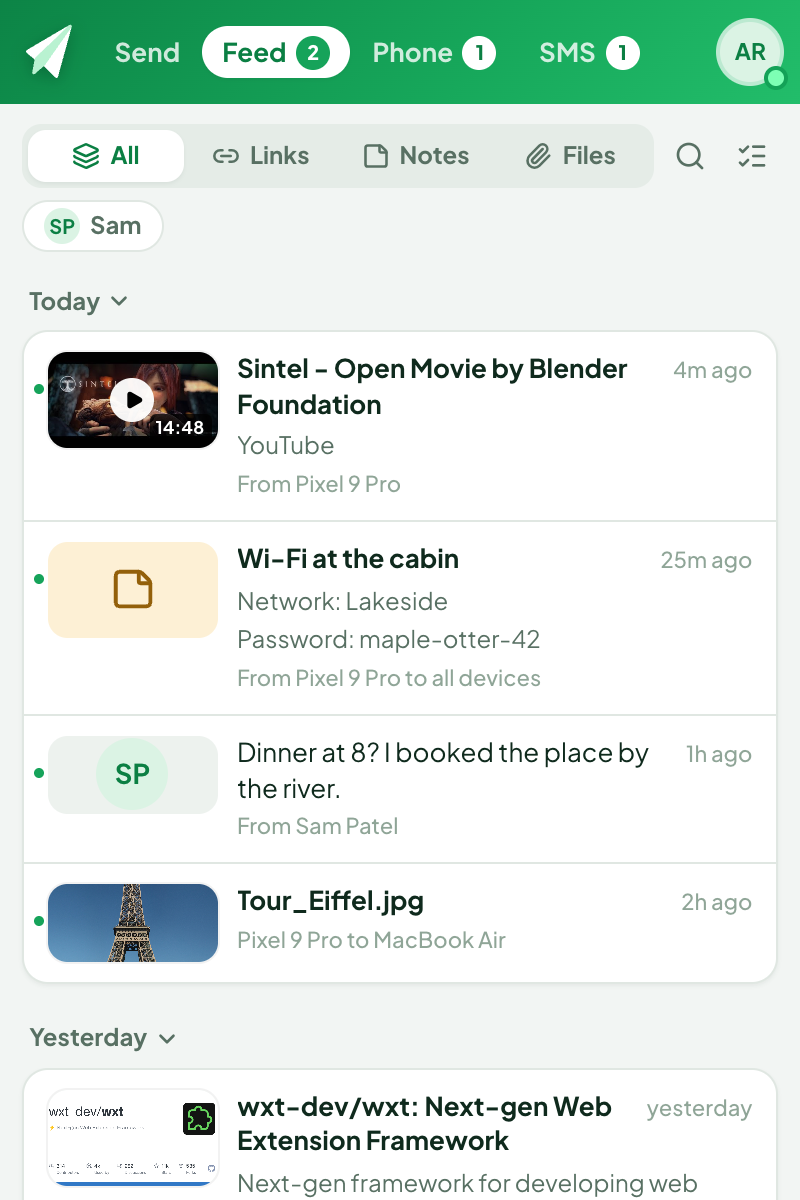
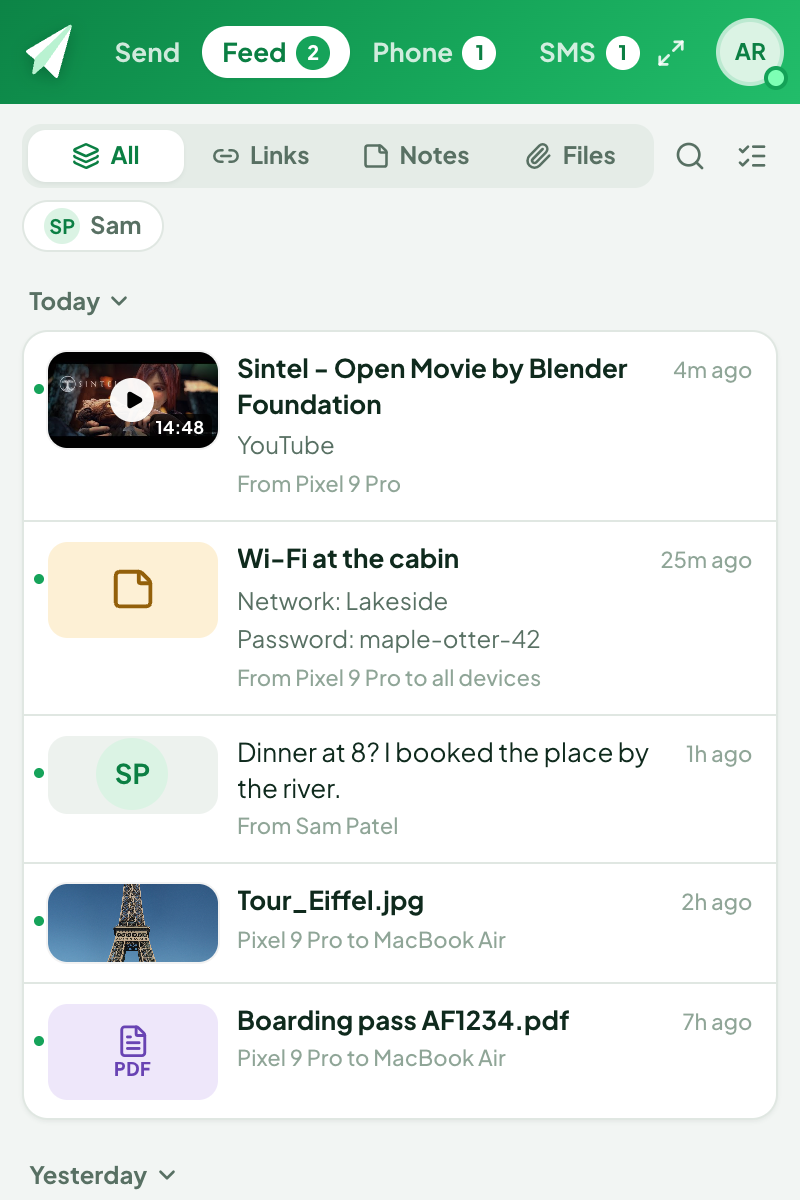
docs: full-page screenshots for the README and store; image count plural
The screenshot script renders the full-page app in a window frame for
store images (Overview, Feed, SMS) and the marquee, plus README shots;
STORE_OUT renders store images elsewhere to compare first. The demo data
gains a few files and stays sorted. '1 images' is now '1 image'.

diff --git a/scripts/demo/data.js b/scripts/demo/data.js
@@ -137,6 +137,46 @@
         target_device_iden: 'd-mac',
       },
       {
+        iden: 'f-boarding',
+        active: true,
+        dismissed: true,
+        created: ago(26000),
+        modified: ago(26000),
+        type: 'file',
+        direction: 'self',
+        file_name: 'Boarding pass AF1234.pdf',
+        file_type: 'application/pdf',
+        file_url: 'https://example.com/boarding-pass.pdf',
+        source_device_iden: 'd-pixel',
+        target_device_iden: 'd-mac',
+      },
+      {
+        iden: 'f-lease',
+        active: true,
+        dismissed: true,
+        created: ago(3 * 86400),
+        modified: ago(3 * 86400),
+        type: 'file',
+        direction: 'self',
+        file_name: 'Lease agreement.docx',
+        file_type: 'application/vnd.openxmlformats-officedocument.wordprocessingml.document',
+        file_url: 'https://example.com/lease.docx',
+        source_device_iden: 'd-mac',
+      },
+      {
+        iden: 'f-slides',
+        active: true,
+        dismissed: true,
+        created: ago(12 * 86400),
+        modified: ago(12 * 86400),
+        type: 'file',
+        direction: 'self',
+        file_name: 'Product review.pptx',
+        file_type: 'application/vnd.openxmlformats-officedocument.presentationml.presentation',
+        file_url: 'https://example.com/review.pptx',
+        source_device_iden: 'd-work',
+      },
+      {
         iden: 'p5',
         active: true,
         dismissed: true,
@@ -276,4 +316,6 @@
       videoDuration: 635,
     },
   };
+  // Newest first, as the extension keeps them.
+  window.__DEMO_DATA__.pushes.sort((a, b) => b.created - a.created);
 })();

diff --git a/src/ui/dashboard/Overview.tsx b/src/ui/dashboard/Overview.tsx
@@ -89,7 +89,7 @@ export function Overview({
           icon={<FolderOpen size={19} />}
           label={i18n.t('dash.statFiles')}
           value={files.length}
-          hint={i18n.t('dash.statImages', [String(files.filter((p) => fileKind(p) === 'image').length)])}
+          hint={i18n.t('dash.statImages', files.filter((p) => fileKind(p) === 'image').length)}
           onClick={() => onPage('files')}
         />
         <Stat

diff --git a/README.md b/README.md
@@ -45,8 +45,8 @@ The official Pushbullet extension is built on Manifest V2, which current version
 - Each browser registers its own Pushbullet device ("Brave on macOS"), so pushes between your browsers just work.
 
 **Feed**
-- Everything you've sent and received, grouped by day and searchable, with video thumbnails, images and link previews.
-- Filter by your devices, channels or a friend. Picking a friend opens a chat view.
+- Everything you've sent and received, grouped by day and searchable, with video thumbnails, images and link previews. Older pushes load as you scroll, and a click on a day's heading jumps to any month.
+- Filter by links, notes or files (images open as a gallery), channels or a friend. Picking a friend opens a chat view.
 
 **Phone** (Android notification mirroring)
 - Your phone's notifications on your desktop, with one-click copy for sign-in codes (or copy them automatically).
@@ -54,6 +54,9 @@ The official Pushbullet extension is built on Manifest V2, which current version
 
 **SMS** (Android)
 - Read conversations and send texts from your browser.
+
+**Full page**
+- Click ⤢ next to your picture to open Pushpilot as a dashboard in its own tab: an overview of what came in, a feed with big previews (↑/↓ to browse), every file as a gallery or a list, your devices, phone notifications by app, and texts beside the open conversation.
 
 **In your language**
 - English, العربية, Deutsch, Español, Français, Bahasa Indonesia, Italiano, 日本語, 한국어, Nederlands, Polski, Português (Brasil), Русский, Türkçe, Tiếng Việt, 简体中文 and 繁體中文, following your browser's language, with a right-to-left layout for Arabic. Corrections are welcome: see [Translations](CONTRIBUTING.md#translations).
@@ -64,6 +67,10 @@ The official Pushbullet extension is built on Manifest V2, which current version
 | Send | Feed | Phone | SMS |
 | --- | --- | --- | --- |
 | <img src="docs/screenshots/send-light.png" width="200"> | <img src="docs/screenshots/feed-light.png" width="200"> | <img src="docs/screenshots/phone-dark.png" width="200"> | <img src="docs/screenshots/sms-thread-light.png" width="200"> |
+
+<img src="docs/screenshots/app-overview-light.png" alt="The full-page dashboard: overview" width="900">
+
+<img src="docs/screenshots/app-feed-dark.png" alt="The full-page dashboard: feed with a large preview, dark theme" width="900">
 
 <sub>Screenshots use a fictional demo account. Videos shown are Blender Foundation open movies.</sub>
 
